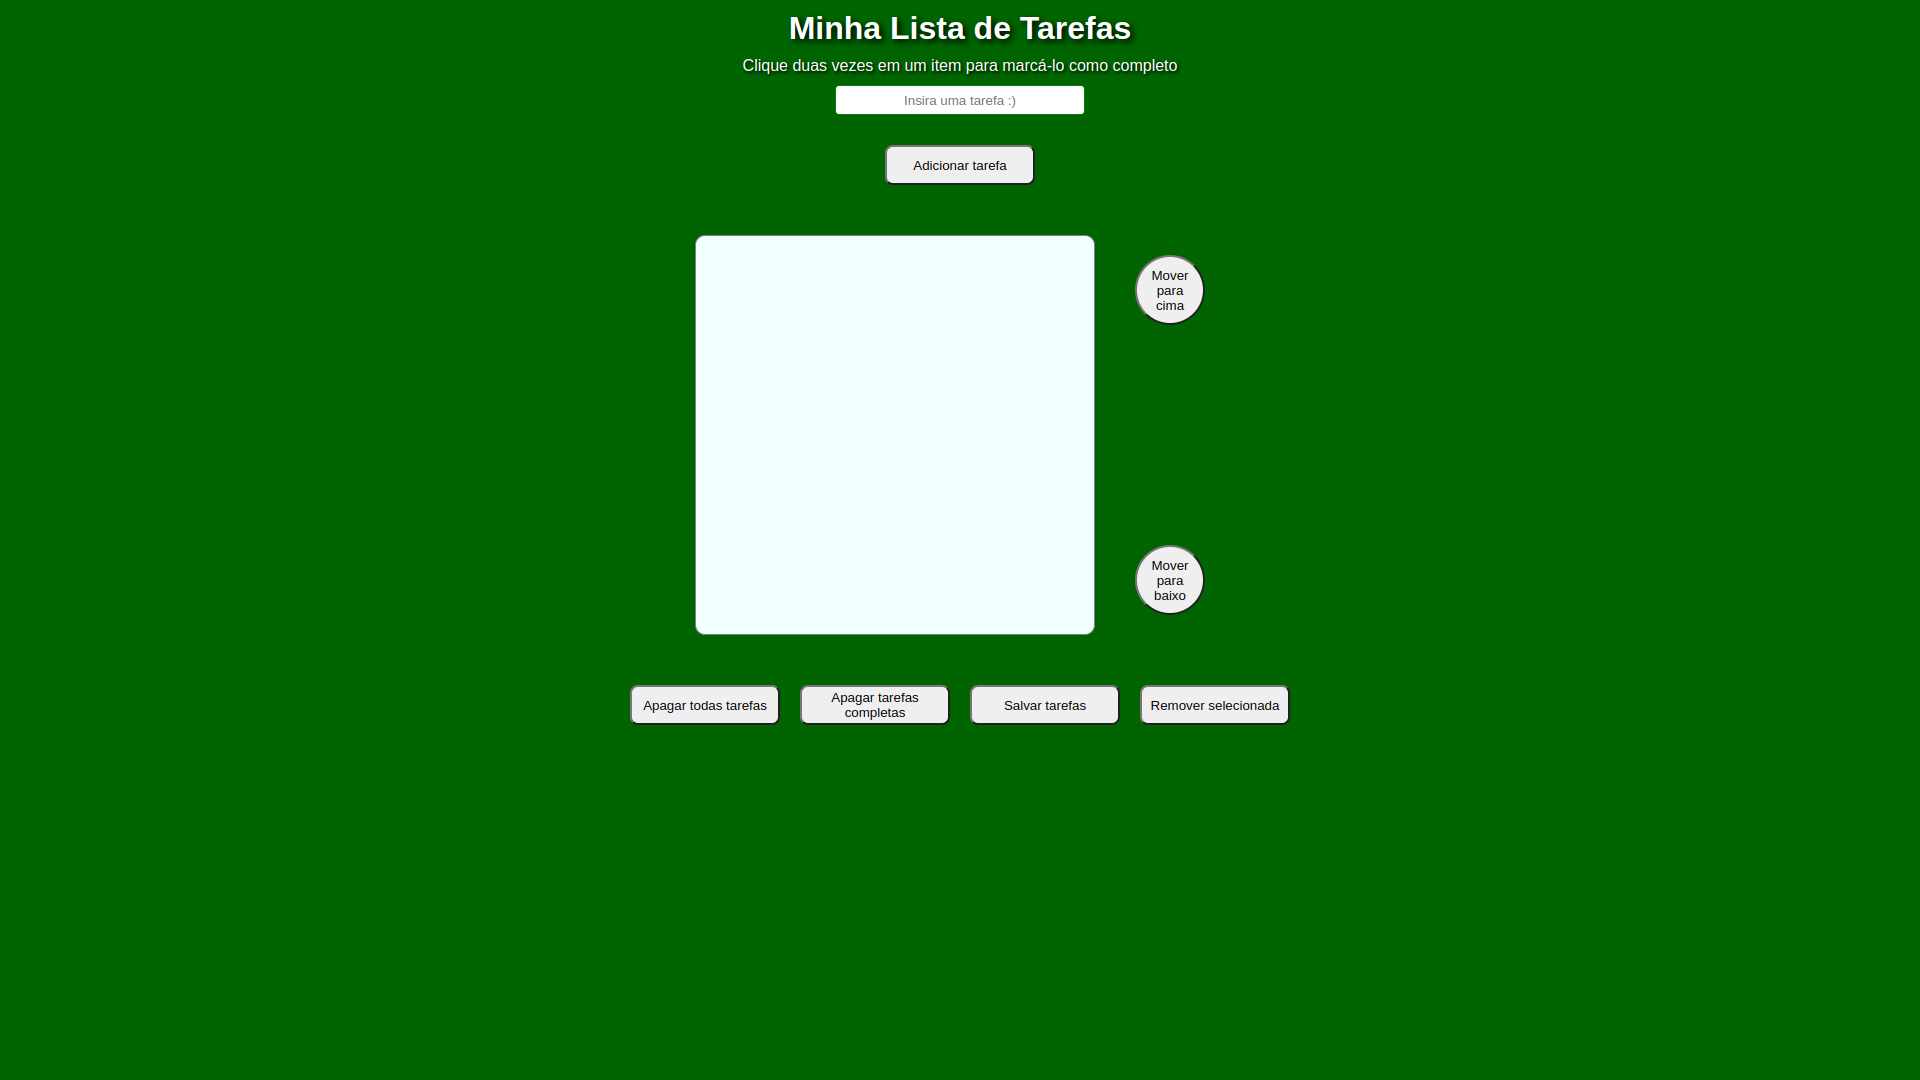
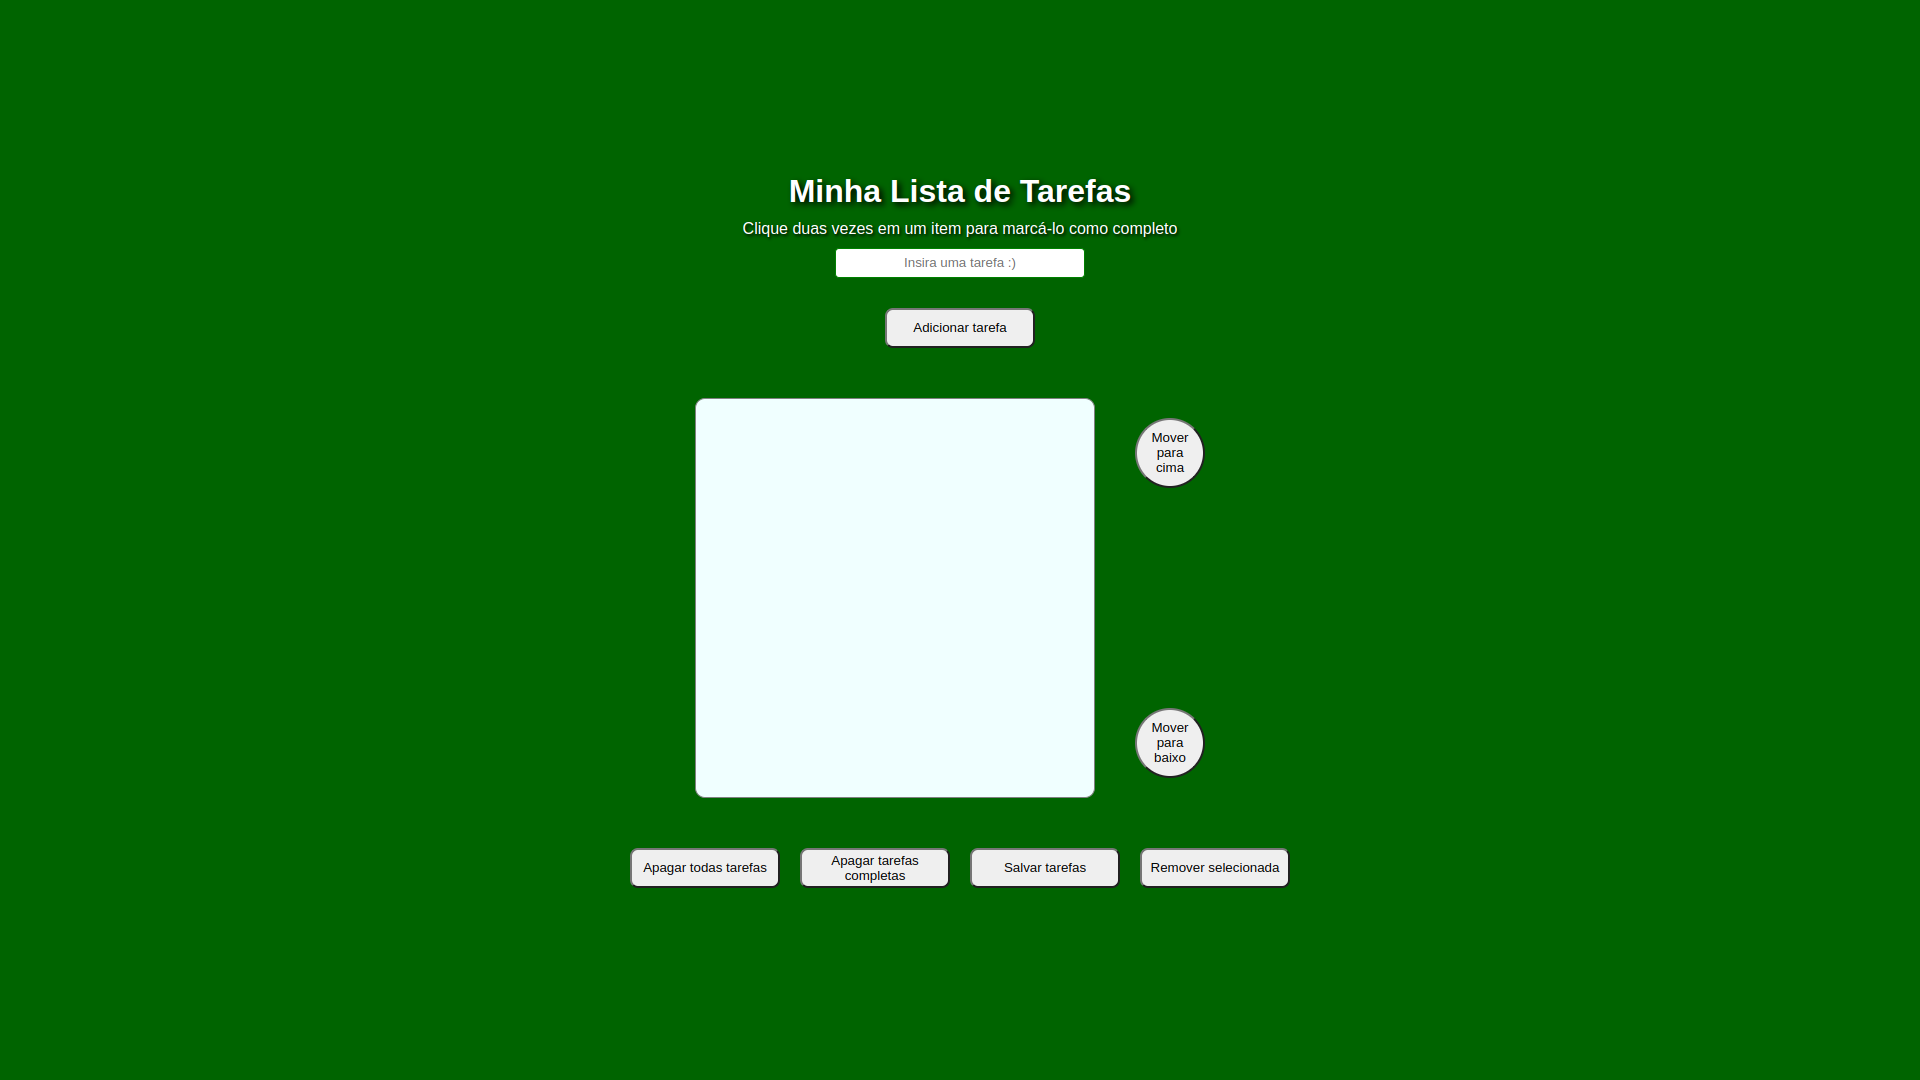
Adição do projeto color guess ao portfólio

diff --git a/home.html b/home.html
@@ -22,14 +22,22 @@
     </main>
     <section class="container d-flex flex-column mb-3 justify-content-center">
         <div class="row d-flex justify-content-center gap-3">
-            <div class="card w-50" style="width: 300px;">
+            <div class="card" style="width: 500px;">
                 <img src="./assets/project-todo-list.png" class="card-img-top" alt="Foto do projeto">
                 <div class="card-body d-grid gap-2">
-                  <h5 class="card-title">Lista de Tarefas</h5>
-                  <p class="card-text">Um dos primeiros projetos feitos, onde usei JavaScript puro com foco em aprender a manipulação de páginas através do DOM.</p>
-                  <a href="./projects/project-todo-list/index.html" class="btn btn-primary btn-dark">Ver o projeto</a>
+                    <h5 class="card-title">Lista de Tarefas</h5>
+                    <p class="card-text">Uma lista de tarefas básica. Usei JavaScript puro com foco em aprender a manipulação de páginas através do DOM.</p>
+                    <a href="./projects/project-todo-list/index.html" class="btn btn-primary btn-dark">Ver o projeto</a>
                 </div>
               </div>
+            <div class="card" style="width: 500px;">
+                <img src="./assets/project-color-guess.png" class="card-img-top" alt="Foto do projeto">
+                <div class="card-body d-grid gap-2">
+                    <h5 class="card-title">Adivinhe a cor</h5>
+                    <p class="card-text">O objetivo é acertar qual das cores corresponde ao rgb exibido na tela, o foco aqui era a manipulação de elementos e a utilização do Event.target</p>
+                    <a href="./projects/project-color-guess/index.html" class="btn btn-primary btn-dark">Ver o projeto</a>
+                </div> 
+            </div>
         </div>
     </section>
     <footer>

diff --git a/projects/project-color-guess/script.js b/projects/project-color-guess/script.js
@@ -1,0 +1,67 @@
+const createColor = () => {
+  const red = Math.floor(Math.random() * 255);
+  const green = Math.floor(Math.random() * 255);
+  const blue = Math.floor(Math.random() * 255);
+  const color = `rgb(${red}, ${green}, ${blue})`;
+  return color;
+};
+
+const generateBallColor = () => {
+  const balls = document.getElementsByClassName('ball');
+  for (let i = 0; i < balls.length; i += 1) {
+    balls[i].style.background = createColor();
+  }
+  return balls;
+};
+generateBallColor();
+
+let randomNumber = Math.floor(Math.random() * 6);
+const balls = document.getElementsByClassName('ball');
+let randomColor = balls[randomNumber].style.background;
+const page = document.getElementById('rgb-color');
+
+const showColor = () => {
+  page.innerText = randomColor;
+};
+showColor();
+
+const answer = document.getElementById('answer');
+
+function addScore(response) {
+  const score = document.getElementById('score');
+  let scoreNumber = Number(score.textContent);
+  if (response) {
+    scoreNumber += 3;
+    score.innerText = scoreNumber;
+  } else {
+    score.innerText = 0;
+  }
+}
+
+const revealAnswer = () => {
+  window.addEventListener('click', (event) => {
+    if (event.target.className === 'ball') {
+      if (randomColor === event.target.style.backgroundColor) {
+        answer.innerText = 'Acertou!';
+        addScore(true);
+      } else {
+        answer.innerText = 'Errou! Tente novamente!';
+        addScore(false);
+      }
+    }
+  });
+};
+revealAnswer();
+
+function restartGame() {
+  const button = document.getElementById('reset-game');
+  button.addEventListener('click', () => {
+    createColor();
+    generateBallColor();
+    randomNumber = Math.floor(Math.random() * 6);
+    randomColor = balls[randomNumber].style.background;
+    showColor();
+    answer.innerText = 'Escolha uma cor';
+  });
+}
+restartGame();

diff --git a/projects/project-color-guess/index.html b/projects/project-color-guess/index.html
@@ -1,0 +1,30 @@
+<!DOCTYPE html>
+<html lang="pt-br">
+<head>
+    <meta charset="UTF-8">
+    <meta http-equiv="X-UA-Compatible" content="IE=edge">
+    <meta name="viewport" content="width=device-width, initial-scale=1.0">
+    <title>Project Color Guess</title>
+    <link rel="stylesheet" href="style.css">
+</head>
+<body>
+    <header>
+        <h1 id="title">Adivinhe a cor</h1>
+        <p id="rgb-color"></p>
+        <button id="reset-game">Reiniciar</button>
+        <h2 id="score">0</h2>
+    </header>
+    <main>
+        <div class="ball"></div>
+        <div class="ball"></div>
+        <div class="ball"></div>
+        <div class="ball"></div>
+        <div class="ball"></div>
+        <div class="ball"></div>
+    </main>
+    <section>
+        <p id="answer">Escolha uma cor</p>
+    </section>
+    <script src="script.js"></script>
+</body>
+</html>

diff --git a/projects/project-color-guess/style.css b/projects/project-color-guess/style.css
@@ -1,0 +1,50 @@
+* {
+  font-family: Arial, Helvetica, sans-serif;
+}
+
+button {
+  width: 100px;
+  height: 30px;
+  border-radius: 5px;
+  cursor: pointer;
+
+}
+
+header {
+  display: flex;
+  justify-content: center;
+  align-items: center;
+  flex-direction: column;
+}
+
+body {
+  background-color: darkslategrey;
+  color: white;
+  display: flex;
+  flex-direction: column;
+  justify-content: center;
+  align-items: center;
+  height: 100vh;
+  margin: 0;
+}
+
+
+main {
+  display: flex;
+  justify-content: center;
+  gap: 20px;
+  padding: 50px;
+}
+
+.ball {
+  width: 50px;
+  height: 50px;
+  border-radius: 50%;
+  border: 2px solid black;
+  cursor: pointer;
+}
+
+#answer {
+  text-align: center;
+  font-weight: bold;
+}

diff --git a/projects/project-todo-list/style.css b/projects/project-todo-list/style.css
@@ -4,6 +4,11 @@
   font-family: sans-serif;
 }
 
+html {
+  width: 100%;
+  height: 100%;
+}
+
 main {
   display: flex;
   justify-content: center;
@@ -20,6 +25,12 @@ h1 , p {
 
 body {
   background-color: darkgreen;
+  display: flex;
+  flex-direction: column;
+  justify-content: center;
+  align-items: center;
+  width: 100%;
+  height: 100%;
 }
 
 input {
